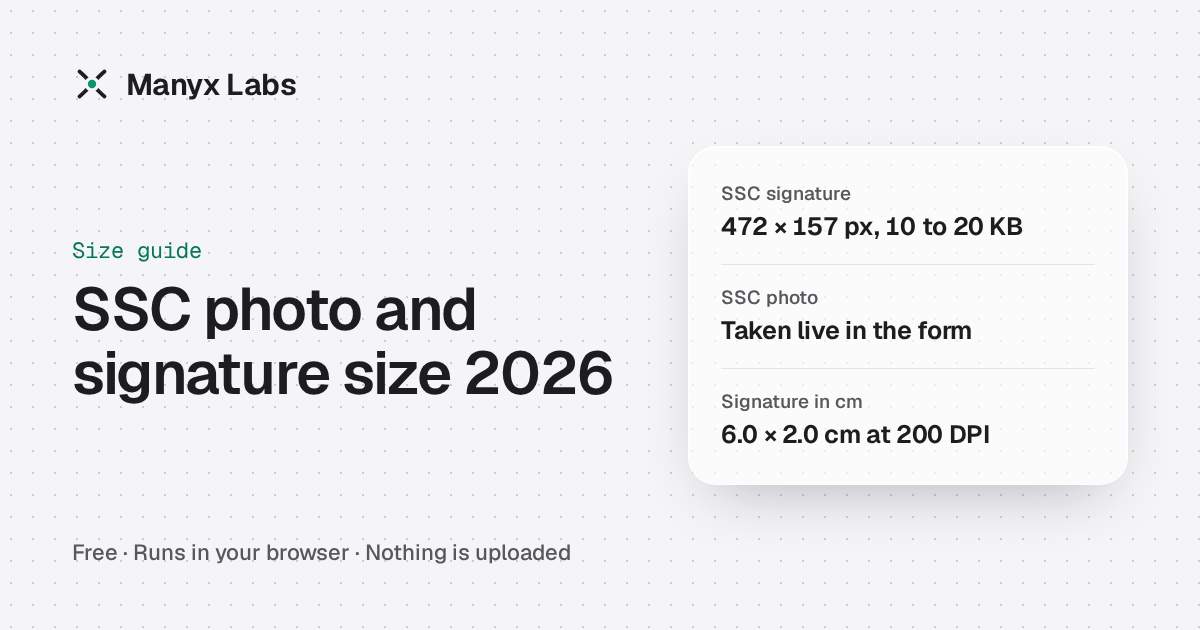
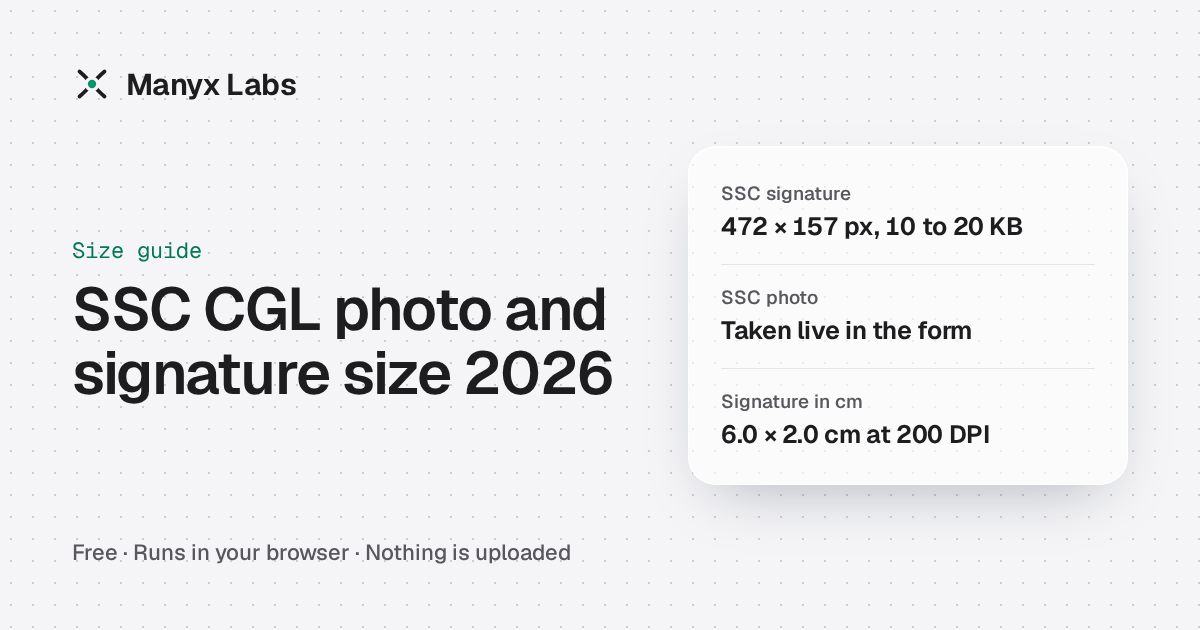
Title the SSC guide SSC CGL in every language, the name people search for.

Changed region(s): [[0.1542, 0.4524, 0.5242, 0.5429]]

diff --git a/src/i18n/kn.ts b/src/i18n/kn.ts
@@ -109,7 +109,7 @@ export default {
     },
     ssc: {
       name: 'SSC',
-      title: 'SSC ಫೋಟೋ ಮತ್ತು ಸಹಿ ಗಾತ್ರ {year}',
+      title: 'SSC CGL ಫೋಟೋ ಮತ್ತು ಸಹಿ ಗಾತ್ರ {year}',
       covers: 'CGL, CHSL, JE ಮತ್ತು Stenographer 2026',
       source: 'SSC CGL 2026 ಅಧಿಸೂಚನೆ, ಪ್ಯಾರಾ 9.6',
       notes: [

diff --git a/src/i18n/hi.ts b/src/i18n/hi.ts
@@ -109,7 +109,7 @@ export default {
     },
     ssc: {
       name: 'SSC',
-      title: 'SSC फ़ोटो और सिग्नेचर साइज़ {year}',
+      title: 'SSC CGL फ़ोटो और सिग्नेचर साइज़ {year}',
       covers: 'CGL, CHSL, JE और Stenographer 2026',
       source: 'SSC CGL 2026 नोटिस, पैरा 9.6',
       notes: [

diff --git a/src/i18n/ml.ts b/src/i18n/ml.ts
@@ -109,7 +109,7 @@ export default {
     },
     ssc: {
       name: 'SSC',
-      title: 'SSC ഫോട്ടോ, ഒപ്പ് സൈസ് {year}',
+      title: 'SSC CGL ഫോട്ടോ, ഒപ്പ് സൈസ് {year}',
       covers: 'CGL, CHSL, JE, Stenographer 2026',
       source: 'SSC CGL 2026 നോട്ടിഫിക്കേഷൻ, ഖണ്ഡിക 9.6',
       notes: [

diff --git a/src/i18n/ta.ts b/src/i18n/ta.ts
@@ -109,7 +109,7 @@ export default {
     },
     ssc: {
       name: 'SSC',
-      title: 'SSC போட்டோ, கையொப்ப அளவு {year}',
+      title: 'SSC CGL போட்டோ, கையொப்ப அளவு {year}',
       covers: 'CGL, CHSL, JE, Stenographer 2026',
       source: 'SSC CGL 2026 அறிவிப்பு, பத்தி 9.6',
       notes: [

diff --git a/src/i18n/bn.ts b/src/i18n/bn.ts
@@ -109,7 +109,7 @@ export default {
     },
     ssc: {
       name: 'SSC',
-      title: 'SSC ফটো ও সিগনেচার সাইজ {year}',
+      title: 'SSC CGL ফটো ও সিগনেচার সাইজ {year}',
       covers: 'CGL, CHSL, JE ও Stenographer 2026',
       source: 'SSC CGL 2026 নোটিস, অনুচ্ছেদ 9.6',
       notes: [

diff --git a/src/i18n/gu.ts b/src/i18n/gu.ts
@@ -109,7 +109,7 @@ export default {
     },
     ssc: {
       name: 'SSC',
-      title: 'SSC ફોટો અને સહીની સાઇઝ {year}',
+      title: 'SSC CGL ફોટો અને સહીની સાઇઝ {year}',
       covers: 'CGL, CHSL, JE અને Stenographer 2026',
       source: 'SSC CGL 2026 નોટિસ, ફકરો 9.6',
       notes: [

diff --git a/src/i18n/mr.ts b/src/i18n/mr.ts
@@ -109,7 +109,7 @@ export default {
     },
     ssc: {
       name: 'SSC',
-      title: 'SSC फोटो आणि सही साइझ {year}',
+      title: 'SSC CGL फोटो आणि सही साइझ {year}',
       covers: 'CGL, CHSL, JE आणि Stenographer 2026',
       source: 'SSC CGL 2026 नोटीस, परिच्छेद 9.6',
       notes: [

diff --git a/src/i18n/te.ts b/src/i18n/te.ts
@@ -109,7 +109,7 @@ export default {
     },
     ssc: {
       name: 'SSC',
-      title: 'SSC ఫోటో, సంతకం సైజ్ {year}',
+      title: 'SSC CGL ఫోటో, సంతకం సైజ్ {year}',
       covers: 'CGL, CHSL, JE, Stenographer 2026',
       source: 'SSC CGL 2026 నోటిఫికేషన్, పేరా 9.6',
       notes: [

diff --git a/src/i18n/en.ts b/src/i18n/en.ts
@@ -115,7 +115,7 @@ const en = {
     },
     ssc: {
       name: 'SSC',
-      title: 'SSC photo and signature size {year}',
+      title: 'SSC CGL photo and signature size {year}',
       covers: 'CGL, CHSL, JE and Stenographer 2026',
       source: 'SSC CGL 2026 notice, para 9.6',
       notes: [
